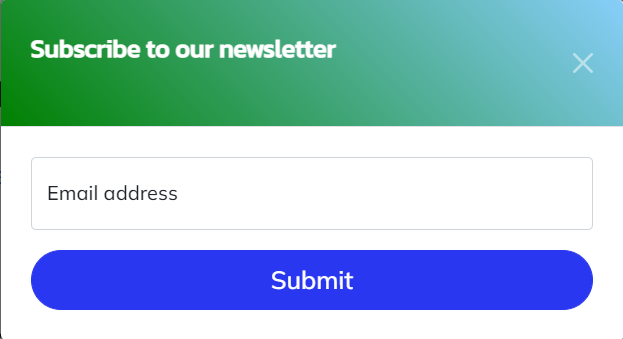
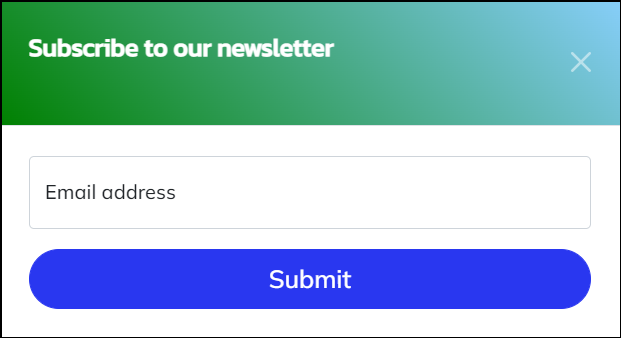
m5 changes + m6 bubble

diff --git a/index.html b/index.html
@@ -156,6 +156,22 @@
                             <div class="timeline-body"><p class="text-muted">Google Analytics, user behaviours and social media.</p></div>
                         </div>
                     </li>
+                    <li class="timeline-inverted">
+                        <div class="portfolio-item">
+                            <a class="portfolio-link" data-bs-toggle="modal" href="#portfolioModal6">
+                                <div class="timeline-image milestone-bubble">
+                                    <img class="rounded-circle img-fluid" src="assets/img/about/1.jpg" alt="..." />
+                                </div>
+                            </a>
+                        </div>
+                        <div class="timeline-panel">
+                            <div class="timeline-heading">
+                                <h4>Milestone 6</h4>
+                                <h4 class="subheading">Project Description</h4>
+                            </div>
+                            <div class="timeline-body"><p class="text-muted">M6 description</p></div>
+                        </div>
+                    </li>
                     <!-- <li>
                         <div class="timeline-image"><img class="rounded-circle img-fluid" src="assets/img/about/3.jpg" alt="..." /></div>
                         <div class="timeline-panel">
@@ -1117,19 +1133,34 @@
                                     <h2 class="text-uppercase">Analytics and Social Media</h2>
                                     <!-- <p class="item-intro text-muted"></p> -->
                                     <!-- <img class="img-fluid d-block mx-auto" src="assets/img/milestones/newsletter.png" alt="..." /> -->
-
+                                    <h3 style="padding-top: 7%;">Updates</h3>
+                                    <div style="padding-top: 1.5%;">
+                                    <li>Added a "Newsletter" element to the landing page, with the help of Formspree.</li>
+                                    <li>Added activity tracking to the landing page, using Google Analytics and Hotjar.</li>
+                                    <li>Shared our landing page to groups of people from various social platforms (Facebook, Instagram, Reddit, WhatsApp) and created Facebook/Instagram pages for the app - the Instagram page reaching around 140 new followers in the first week.</li>
+                                    <li>Made other design changes for the landing page based on the feedback received online and in class.</li>
+                                    </div>
                                     <div class=" py-2">                              
                                         <div>
-                                            <h3>Collecting contact data from users</h3>
-                                            <div class="text-align-left">
-                                                <div class="mx-2">Our landing page has now a Newsletter button on the navigation menu, which displays a pop-up for subscribing to the Habit Oasis newsletter: 
+                                            <h3 style="padding-top: 7%;">Collecting contact data from users</h3>
+                                            <div style="padding-top: 1.5%;">
+                                                <div class="text-align-left" class="mx-2">Our landing page has now a Newsletter button on the navigation menu, which displays a pop-up for subscribing to the Habit Oasis newsletter. This and the rest of changes brought to the landing page (before scrolling) can be seen below: 
                                                 </div>
-                                                <img class="img-fluid d-block mx-auto my-4" src="assets/img/milestones/newsletter.png" alt="..." />
                                             </div>
+                                            <img class="img-fluid d-block mx-auto my-4" src="assets/img/milestones/landing-page-m5.png" alt="..." />
+                                            <img class="img-fluid d-block mx-auto my-4" src="assets/img/milestones/newsletter.png" alt="..." />
                                         </div>
                                     </div>
 
                                     <hr>
+
+                                    <div class="py-2">
+                                        <h3>Analytics</h3>
+                                        <div class="text-align-left">
+                                            After promoting our app on different social platforms, the landing page was visited by people from Romania and a few other countries:
+                                            <img class="img-fluid d-block mx-auto my-4" src="assets/img/milestones/users-by-country.png" alt="..." />
+                                        </div>
+                                    </div>
 
                                     <div class=" py-2">                              
                                         <div>
